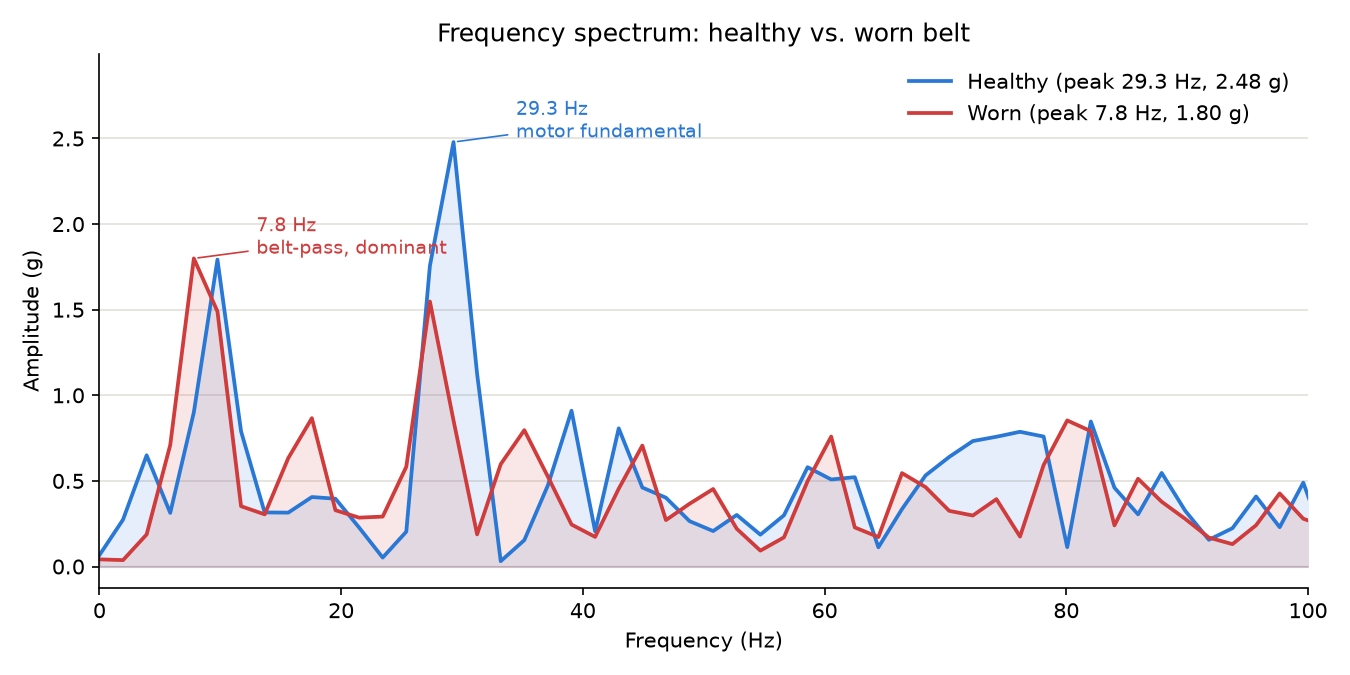
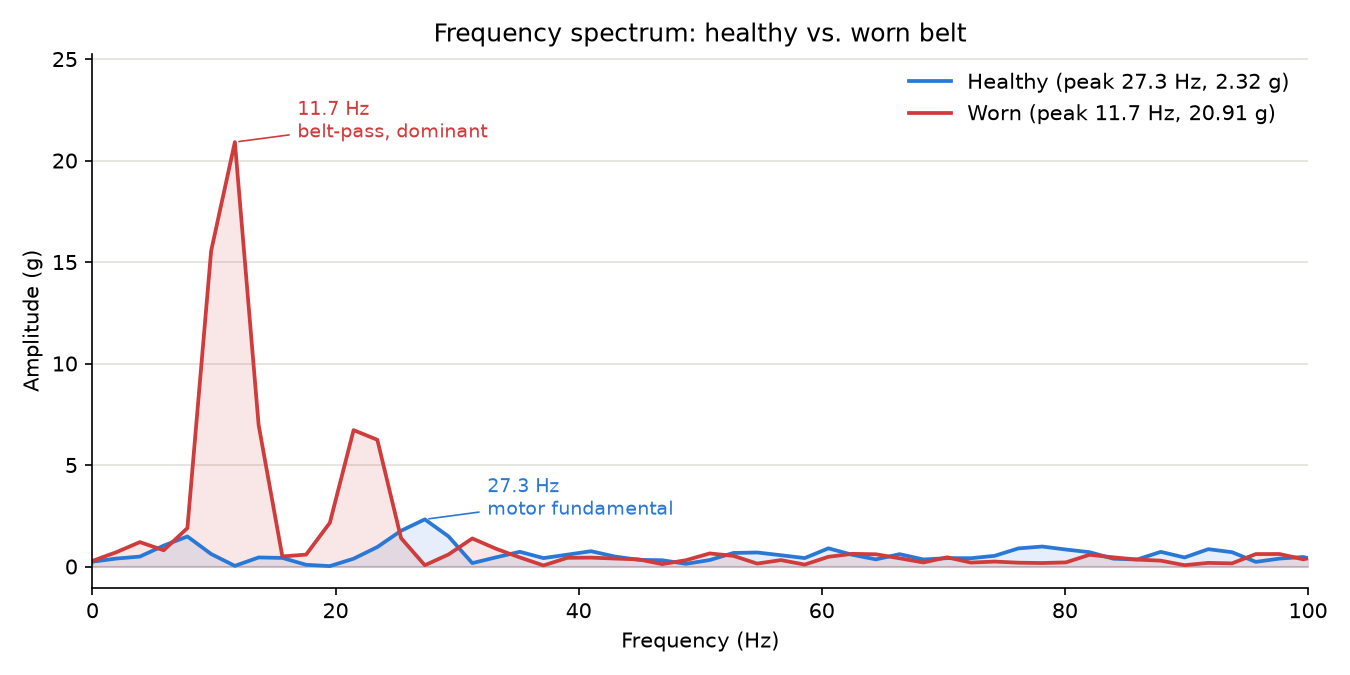
unbound fft limit

diff --git a/analysis/labels.py b/analysis/labels.py
@@ -18,11 +18,7 @@ def parse_ts(s):
         return datetime.fromisoformat(s).timestamp()
 
 
-def add_session_args(parser):
-    parser.add_argument(
-        "--device-id", default=None,
-        help="physical device to read from; default: the only device_id present in fft_results (error if there's more than one)",
-    )
+def add_range_args(parser):
     parser.add_argument(
         "--healthy-range", nargs=2, metavar=("START", "END"), action="append", default=None,
         help="a time range (unix timestamp or ISO 8601) the belt was known healthy; repeatable for "
@@ -35,6 +31,14 @@ def add_session_args(parser):
              "multiple sessions. Optional if --healthy-range is also omitted: windows are then "
              "auto-split in half by time instead",
     )
+
+
+def add_session_args(parser):
+    parser.add_argument(
+        "--device-id", default=None,
+        help="physical device to read from; default: the only device_id present in fft_results (error if there's more than one)",
+    )
+    add_range_args(parser)
 
 
 def parse_ranges(raw_ranges):
@@ -73,16 +77,21 @@ def auto_split_ranges(conn, device_id):
     return [(start, mid)], [(mid, end)]
 
 
-def resolve_device_id(conn, table, explicit):
+def resolve_device_id(conn, table, explicit=None, flag_hint=None):
     """Return `explicit` if given; otherwise auto-detect it as the sole
     distinct device_id in `table`, erroring out if there's more than one
-    (ambiguous -- the caller must say which device they mean)."""
+    (ambiguous -- the caller must say which device they mean). `explicit`
+    only ever comes from callers that expose a --device-id flag; pass that
+    flag's name as `flag_hint` so the ambiguity error tells the user how to
+    resolve it (callers without the flag, e.g. generate_figures.py, leave
+    it None and rely solely on auto-detection)."""
     if explicit:
         return explicit
     rows = conn.execute(f"SELECT DISTINCT device_id FROM {table}").fetchall()
     if len(rows) != 1:
         ids = ", ".join(r[0] for r in rows) or "(none)"
+        suffix = f"; pass {flag_hint} explicitly" if flag_hint else ""
         raise SystemExit(
-            f"--device-id not given and {table} has {len(rows)} distinct device_id(s) ({ids}); pass --device-id explicitly"
+            f"{table} has {len(rows)} distinct device_id(s) ({ids}), not exactly 1; can't auto-detect which device to use{suffix}"
         )
     return rows[0][0]

diff --git a/analysis/generate_figures.py b/analysis/generate_figures.py
@@ -1,7 +1,7 @@
 #!/usr/bin/env python3
 """Generate static report figures + a summary table from fft_results.
 
-Reads backend/fft_backend.sqlite3 (real output of backend/analyze_fft.py)
+Reads backend/fft_db.sqlite3 (real output of backend/analyze_fft.py)
 and writes plain PNG plots plus a markdown summary table to
 analysis/figures/. Nothing here is interactive: matplotlib for the plots,
 scipy.stats for a real significance test on the healthy/worn separation,
@@ -16,9 +16,9 @@ healthy, later half worn) as a dev/testing convenience -- pass explicit
 ranges for a real report.
 
 Usage:
-    python3 generate_figures.py --device-id sim01
+    python3 generate_figures.py
 
-    python3 generate_figures.py --device-id sim01 \\
+    python3 generate_figures.py \\
         --healthy-range 2026-08-20T09:00 2026-08-20T11:00 \\
         --worn-range 2026-08-22T09:00 2026-08-22T11:00
 """
@@ -39,7 +39,7 @@ sys.path.insert(0, os.path.dirname(os.path.abspath(__file__)))
 import labels  # noqa: E402
 
 DEFAULT_DB_PATH = os.path.join(
-    os.path.dirname(os.path.abspath(__file__)), "..", "backend", "fft_backend.sqlite3"
+    os.path.dirname(os.path.abspath(__file__)), "..", "backend", "fft_db.sqlite3"
 )
 DB_PATH = os.environ.get("FFT_DB_PATH", DEFAULT_DB_PATH)
 FIG_DIR = os.path.join(os.path.dirname(os.path.abspath(__file__)), "figures")
@@ -259,13 +259,13 @@ def write_summary_table(h_freq, h_amp, w_freq, w_amp, out_path):
 
 def main():
     parser = argparse.ArgumentParser(description=__doc__, formatter_class=argparse.RawDescriptionHelpFormatter)
-    labels.add_session_args(parser)
+    labels.add_range_args(parser)
     args = parser.parse_args()
 
     os.makedirs(FIG_DIR, exist_ok=True)
     conn = sqlite3.connect(DB_PATH)
 
-    device_id = labels.resolve_device_id(conn, "fft_results", args.device_id)
+    device_id = labels.resolve_device_id(conn, "fft_results", None)
     healthy_ranges = labels.parse_ranges(args.healthy_range)
     worn_ranges = labels.parse_ranges(args.worn_range)
     if not healthy_ranges and not worn_ranges:

diff --git a/backend/analyze_fft.py b/backend/analyze_fft.py
@@ -5,7 +5,7 @@ Reads windows that don't have a matching fft_results row yet and writes the anal
 
 Usage:
     FFT_DB_PATH=<path> python3 analyze_fft.py [--limit N]
-    FFT_DB_PATH=fft_backend.sqlite3 python3 analyze_fft.py
+    FFT_DB_PATH=fft_db.sqlite3 python3 analyze_fft.py
 """
 
 import argparse
@@ -20,7 +20,7 @@ import storage
 # matching comment in ingest.py. ingest.py and analyze_fft.py must resolve
 # to the same file even when launched independently (e.g. one as a service,
 # the other from cron) with different working directories.
-DEFAULT_DB_PATH = os.path.join(os.path.dirname(os.path.abspath(__file__)), "fft_backend.sqlite3")
+DEFAULT_DB_PATH = os.path.join(os.path.dirname(os.path.abspath(__file__)), "fft_db.sqlite3")
 DB_PATH = os.environ.get("FFT_DB_PATH", DEFAULT_DB_PATH)
 AXES = ("ax", "ay", "az")
 
@@ -74,7 +74,7 @@ def run_once(conn, limit):
 
 def main():
     parser = argparse.ArgumentParser(description=__doc__)
-    parser.add_argument("--limit", type=int, default=100, help="max windows to process per run")
+    parser.add_argument("--limit", type=int, default=None, help="max windows to process per run; default: no limit")
     args = parser.parse_args()
 
     conn = storage.connect(DB_PATH)

diff --git a/backend/window_gen.py b/backend/window_gen.py
@@ -23,8 +23,8 @@ same entrypoint ingest.py uses, so downstream scripts can't tell them from
 real hardware data.
 
 Usage:
-    python3 window_gen.py --device-id sim-01 --condition healthy --count 200
-    python3 window_gen.py --device-id sim-01 --condition worn --count 200
+    python3 window_gen.py --device-id esp32-4a3f2c --condition healthy --count 200
+    python3 window_gen.py --device-id esp32-4a3f2c --condition worn --count 200
 
 Each invocation's windows are timestamped at generation time (like real
 ingestion), so running healthy then worn as separate invocations produces
@@ -42,7 +42,7 @@ import storage
 
 # Anchored to this script's own directory -- see the matching comment in
 # ingest.py/analyze_fft.py.
-DEFAULT_DB_PATH = os.path.join(os.path.dirname(os.path.abspath(__file__)), "fft_backend.sqlite3")
+DEFAULT_DB_PATH = os.path.join(os.path.dirname(os.path.abspath(__file__)), "fft_db.sqlite3")
 DB_PATH = os.environ.get("FFT_DB_PATH", DEFAULT_DB_PATH)
 
 SAMPLE_RATE_HZ = 500.0

diff --git a/analysis/classify_faults.py b/analysis/classify_faults.py
@@ -56,7 +56,7 @@ import storage  # noqa: E402  (reuses the schema + write functions rather than d
 import labels  # noqa: E402
 
 DEFAULT_DB_PATH = os.path.join(
-    os.path.dirname(os.path.abspath(__file__)), "..", "backend", "fft_backend.sqlite3"
+    os.path.dirname(os.path.abspath(__file__)), "..", "backend", "fft_db.sqlite3"
 )
 DB_PATH = os.environ.get("FFT_DB_PATH", DEFAULT_DB_PATH)
 FIG_DIR = os.path.join(os.path.dirname(os.path.abspath(__file__)), "figures")
@@ -205,7 +205,7 @@ def main():
     os.makedirs(FIG_DIR, exist_ok=True)
     conn = storage.connect(DB_PATH)
 
-    device_id = labels.resolve_device_id(conn, "fft_results", args.device_id)
+    device_id = labels.resolve_device_id(conn, "fft_results", args.device_id, flag_hint="--device-id")
     healthy_ranges = labels.parse_ranges(args.healthy_range)
     worn_ranges = labels.parse_ranges(args.worn_range)
     if not healthy_ranges:

diff --git a/backend/storage.py b/backend/storage.py
@@ -98,8 +98,9 @@ def store_window(conn, device_id, payload, received_at=None):
     return cur.lastrowid
 
 
-def fetch_unanalyzed_windows(conn, limit=100):
-    """Raw windows that don't have a matching fft_results row yet."""
+def fetch_unanalyzed_windows(conn, limit=None):
+    """Raw windows that don't have a matching fft_results row yet.
+    `limit=None` fetches all of them (SQLite's LIMIT -1 means unbounded)."""
     cur = conn.execute(
         "SELECT r.id, r.device_id, r.sample_rate_hz, r.ax, r.ay, r.az "
         "FROM raw_windows r "
@@ -107,7 +108,7 @@ def fetch_unanalyzed_windows(conn, limit=100):
         "WHERE f.id IS NULL "
         "ORDER BY r.id "
         "LIMIT ?",
-        (limit,),
+        (limit if limit is not None else -1,),
     )
     return [
         {

diff --git a/backend/ingest.py b/backend/ingest.py
@@ -34,7 +34,7 @@ BROKER_PORT = int(os.environ.get("MQTT_BROKER_PORT", "1883"))
 # processes (e.g. one as a long-running service, the other from cron), and a
 # bare relative filename would silently point them at two different files if
 # they're started from different working directories.
-DEFAULT_DB_PATH = os.path.join(os.path.dirname(os.path.abspath(__file__)), "fft_backend.sqlite3")
+DEFAULT_DB_PATH = os.path.join(os.path.dirname(os.path.abspath(__file__)), "fft_db.sqlite3")
 DB_PATH = os.environ.get("FFT_DB_PATH", DEFAULT_DB_PATH)
 # Stable, not the paho-generated random default: a persistent session (see
 # clean_session=False in main()) is only useful if the broker recognizes the

diff --git a/analysis/figures/summary_table.md b/analysis/figures/summary_table.md
@@ -1,4 +1,4 @@
-| Metric | Healthy (n=15) | Worn (n=14) | Mann-Whitney U |
+| Metric | Healthy (n=429) | Worn (n=646) | Mann-Whitney U |
 |---|---|---|---|
-| Peak frequency (Hz) | 26.30 ± 7.30 | 30.27 ± 16.73 | U=90, p=4.71e-01 |
-| Peak amplitude (g) | 2.57 ± 0.73 | 2.54 ± 0.83 | U=105, p=1.00e+00 |
+| Peak frequency (Hz) | 32.73 ± 30.44 | 10.95 ± 12.50 | U=248583, p=5.22e-114 |
+| Peak amplitude (g) | 3.22 ± 4.04 | 17.52 ± 7.94 | U=17890, p=1.82e-129 |
